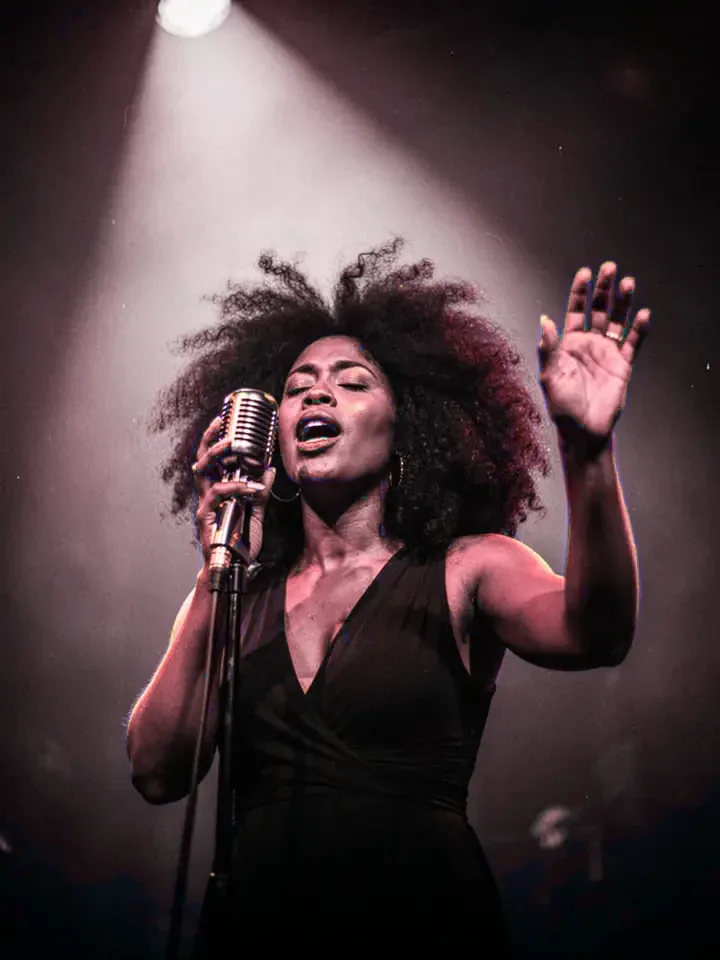
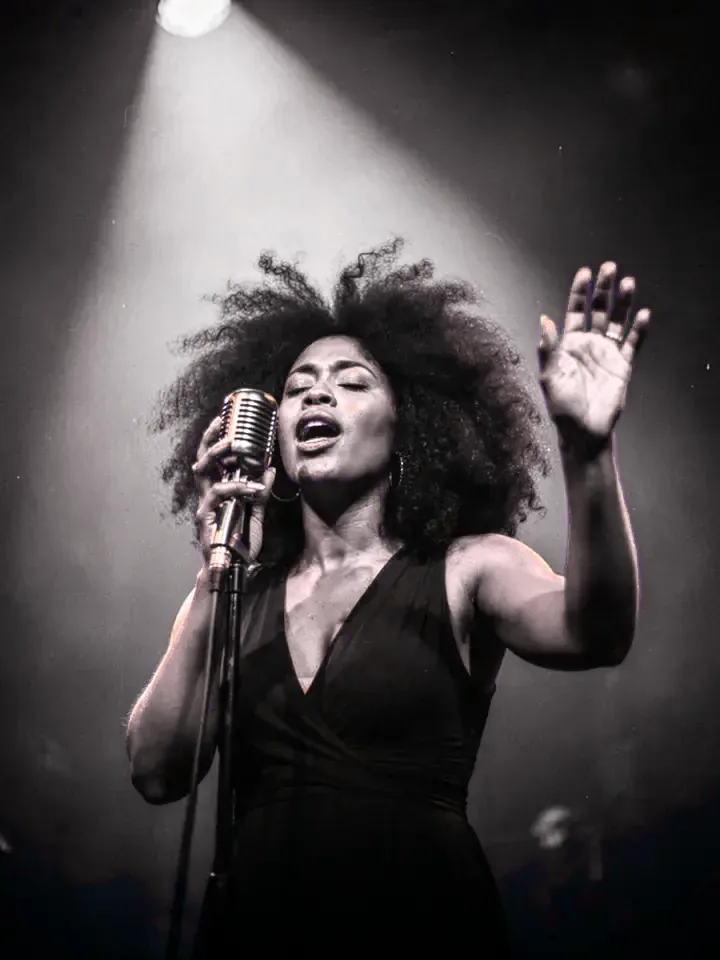
Paleta preto/cinza/vinho sem rosa; laranja só nos botões
Claude-Session: https://claude.ai/code/session_01P75SYugPZQa5aGkncxyAbD

diff --git a/assets/nrota.css b/assets/nrota.css
@@ -2,8 +2,8 @@
 :root{
   --bg:#0d0b0c; --ink:#151213; --glass:rgba(255,255,255,.045); --glass-hi:rgba(255,255,255,.09); --edge:rgba(255,255,255,.09);
   --fg:#f7f4f4; --muted:#aaa4a6; --dim:#716c6e;
-  --lilac:#e07c8e; --violet:#8e1428; --lilac-ink:#2a0710;
-  --orange:#c42a45; --orange-hi:#e0556c; --orange-ink:#fff;
+  --lilac:#c9304a; --violet:#8e1428; --lilac-ink:#2a0710;
+  --orange:#ff7a1a; --orange-hi:#ffa05a; --orange-ink:#1f0d00; --acc:#b3213b; --acc-hi:#cf3a53; --acc-ink:#fff;
   --wine:#ae172e; --danger:#ff8a9a;
   --f-display:"Big Shoulders Display","Arial Narrow","Roboto Condensed",Impact,sans-serif;
   --f-body:"Familjen Grotesk",system-ui,-apple-system,"Segoe UI",sans-serif;
@@ -21,7 +21,7 @@ body::after{content:"";position:fixed;inset:0;z-index:80;pointer-events:none;opa
 img{max-width:100%;display:block}
 a{color:inherit}
 button{font:inherit;color:inherit;cursor:pointer}
-:focus-visible{outline:2px solid var(--orange);outline-offset:3px;border-radius:8px}
+:focus-visible{outline:2px solid var(--acc);outline-offset:3px;border-radius:8px}
 ::selection{background:var(--lilac);color:var(--lilac-ink)}
 .wrap{max-width:var(--wrap);margin:0 auto;padding-left:var(--gutter);padding-right:max(18px,env(safe-area-inset-right,0px))}
 h1,h2,h3{font-family:var(--f-display);font-weight:800;text-transform:uppercase;letter-spacing:-.005em;line-height:.9;text-wrap:balance;margin:0}
@@ -33,16 +33,16 @@ p{margin:0}
 .muted{color:var(--muted)}
 .stroke{color:transparent;-webkit-text-stroke:1.5px var(--lilac)}
 .lil{color:var(--lilac)}
-.org{color:var(--orange)}
-.label{font-family:var(--f-mono);font-size:.68rem;font-weight:500;letter-spacing:.08em;text-transform:uppercase;color:var(--lilac);display:inline-flex;align-items:center;gap:10px}
-.label b{color:var(--orange);font-weight:500}
+.org{color:var(--acc)}
+.label{font-family:var(--f-mono);font-size:.68rem;font-weight:500;letter-spacing:.08em;text-transform:uppercase;color:#bdb7b9;display:inline-flex;align-items:center;gap:10px}
+.label b{color:var(--acc);font-weight:500}
 .label::before{content:"";width:22px;height:1px;background:currentColor}
 
 .btn{position:relative;display:inline-flex;align-items:center;justify-content:center;gap:10px;border-radius:99px;padding:15px 24px;font-weight:600;font-size:1rem;text-decoration:none;border:1px solid transparent;transition:transform .25s var(--ease),box-shadow .25s,background .2s,border-color .2s;white-space:nowrap}
 .btn:active{transform:scale(.97)}
 .btn:disabled{opacity:.6}
-.btn-o{background:linear-gradient(180deg,var(--orange-hi),var(--orange));color:var(--orange-ink);box-shadow:0 10px 30px -8px rgba(196,42,69,.7),inset 0 1px 0 rgba(255,255,255,.35)}
-.btn-o:hover{box-shadow:0 14px 40px -6px rgba(196,42,69,.85),inset 0 1px 0 rgba(255,255,255,.35);transform:translateY(-2px)}
+.btn-o{background:linear-gradient(180deg,var(--orange-hi),var(--orange));color:var(--orange-ink);box-shadow:0 10px 30px -8px rgba(255,122,26,.7),inset 0 1px 0 rgba(255,255,255,.35)}
+.btn-o:hover{box-shadow:0 14px 40px -6px rgba(255,122,26,.85),inset 0 1px 0 rgba(255,255,255,.35);transform:translateY(-2px)}
 .btn-p{background:var(--lilac);color:var(--lilac-ink)}
 .btn-p:hover{background:#d6c3ff;transform:translateY(-2px)}
 .btn-g{background:var(--glass);border-color:var(--edge);color:var(--fg);backdrop-filter:blur(10px);-webkit-backdrop-filter:blur(10px)}
@@ -70,7 +70,7 @@ n-header.open .burger i::after{content:"";display:block;width:18px;height:2px;ba
 n-header.open .menu-panel{opacity:1;visibility:visible}
 .menu-panel a.big{font-family:var(--f-display);font-weight:800;text-transform:uppercase;font-size:clamp(2.8rem,13vw,4.4rem);line-height:.95;text-decoration:none;color:var(--fg);opacity:0;transform:translateY(26px);transition:opacity .45s var(--ease),transform .45s var(--ease),color .2s;transition-delay:calc(var(--i) * 55ms)}
 .menu-panel a.big[aria-current=page],.menu-panel a.big:hover{color:var(--lilac)}
-.menu-panel a.big span{font-family:var(--f-mono);font-size:.7rem;font-weight:400;color:var(--orange);vertical-align:top;margin-right:10px;letter-spacing:.05em}
+.menu-panel a.big span{font-family:var(--f-mono);font-size:.7rem;font-weight:400;color:var(--acc);vertical-align:top;margin-right:10px;letter-spacing:.05em}
 n-header.open .menu-panel a.big{opacity:1;transform:none}
 .menu-panel .btn{margin-top:auto}
 @media (min-width:980px){
@@ -101,15 +101,15 @@ footer.site{position:relative;overflow:hidden;border-top:1px solid var(--edge);p
 .foot ul a{text-decoration:none;font-size:.95rem}
 .foot ul a:hover{color:var(--lilac)}
 .foot-base{display:flex;justify-content:space-between;gap:12px;flex-wrap:wrap;padding-top:22px;border-top:1px solid var(--edge);font-family:var(--f-mono);font-size:.66rem;letter-spacing:.06em;text-transform:uppercase;color:var(--dim)}
-.giant{position:absolute;left:50%;bottom:-.18em;transform:translateX(-50%);font-family:var(--f-display);font-weight:900;font-size:38vw;line-height:1;color:transparent;-webkit-text-stroke:1px rgba(224,124,142,.12);pointer-events:none;white-space:nowrap}
+.giant{position:absolute;left:50%;bottom:-.18em;transform:translateX(-50%);font-family:var(--f-display);font-weight:900;font-size:38vw;line-height:1;color:transparent;-webkit-text-stroke:1px rgba(201,48,74,.12);pointer-events:none;white-space:nowrap}
 @media (min-width:980px){.foot{grid-template-columns:1.3fr 1fr}footer.site{padding-bottom:64px}.giant{font-size:24vw}}
 
 /* abertura */
 .hero{position:relative;isolation:isolate;padding-block:20px 40px;overflow:hidden}
 .beams{position:absolute;inset:-20% -30% auto;height:900px;z-index:-1;pointer-events:none}
 .beam{position:absolute;top:-10%;width:60%;height:120%;filter:blur(30px);opacity:.55;transform-origin:50% 0;mix-blend-mode:screen;animation:sweep 9s ease-in-out infinite alternate}
-.beam.b1{left:5%;background:conic-gradient(from 168deg at 50% 0,transparent 0deg,rgba(224,124,142,.55) 12deg,transparent 26deg)}
-.beam.b2{right:0;background:conic-gradient(from 172deg at 50% 0,transparent 0deg,rgba(196,42,69,.42) 10deg,transparent 22deg);animation-duration:11s;animation-delay:-3s}
+.beam.b1{left:5%;background:conic-gradient(from 168deg at 50% 0,transparent 0deg,rgba(201,48,74,.55) 12deg,transparent 26deg)}
+.beam.b2{right:0;background:conic-gradient(from 172deg at 50% 0,transparent 0deg,rgba(179,33,59,.42) 10deg,transparent 22deg);animation-duration:11s;animation-delay:-3s}
 .beam.b3{left:35%;background:conic-gradient(from 175deg at 50% 0,transparent 0deg,rgba(142,20,40,.6) 9deg,transparent 18deg);animation-duration:13s}
 @keyframes sweep{from{transform:rotate(-14deg)}to{transform:rotate(14deg)}}
 .hero-grid{display:grid;gap:28px}
@@ -118,7 +118,7 @@ footer.site{position:relative;overflow:hidden;border-top:1px solid var(--edge);p
 .hero h1 span{display:block}
 .hero .fine{font-family:var(--f-mono);font-size:.66rem;letter-spacing:.06em;text-transform:uppercase;color:var(--dim)}
 .eq{display:inline-flex;gap:3px;align-items:flex-end;height:14px}
-.eq i{width:3px;background:var(--orange);border-radius:2px;animation:eq 1s ease-in-out infinite}
+.eq i{width:3px;background:var(--acc);border-radius:2px;animation:eq 1s ease-in-out infinite}
 .eq i:nth-child(2){animation-delay:-.3s}.eq i:nth-child(3){animation-delay:-.6s}.eq i:nth-child(4){animation-delay:-.15s}
 @keyframes eq{0%,100%{height:3px}50%{height:14px}}
 
@@ -136,7 +136,7 @@ footer.site{position:relative;overflow:hidden;border-top:1px solid var(--edge);p
 .chip-f .dot{width:30px;height:30px;border-radius:10px;display:grid;place-items:center;background:var(--lilac);color:var(--lilac-ink);flex:none}
 .chip-f.c1{left:0;bottom:16%}
 .chip-f.c2{right:2%;top:4%;animation-delay:-2s}
-.chip-f.c2 .dot{background:var(--orange);color:var(--orange-ink)}
+.chip-f.c2 .dot{background:var(--acc);color:var(--acc-ink)}
 .chip-f.c3{right:4%;bottom:2%;animation-delay:-4s}
 .caret{display:inline-block;width:2px;height:1em;background:var(--lilac);vertical-align:-2px;margin-left:2px;animation:blink 1s steps(1) infinite}
 @keyframes blink{50%{opacity:0}}
@@ -155,7 +155,7 @@ footer.site{position:relative;overflow:hidden;border-top:1px solid var(--edge);p
 .ticker.alt .track{animation-direction:reverse;animation-duration:32s}
 .ticker span{font-family:var(--f-display);font-weight:800;text-transform:uppercase;font-size:clamp(1.7rem,6vw,2.6rem);line-height:1;padding-inline:18px;white-space:nowrap;display:flex;align-items:center;gap:36px}
 .ticker span::after{content:"✦";font-size:.6em}
-.t-org{background:var(--orange);color:var(--orange-ink)}
+.t-org{background:var(--acc);color:var(--acc-ink)}
 .t-lil{background:var(--lilac);color:var(--lilac-ink)}
 @keyframes tick{to{transform:translateX(-50%)}}
 
@@ -175,14 +175,14 @@ section.s{position:relative;padding-block:76px}
 @media (min-width:980px){.snap.fit{grid-auto-flow:row;grid-template-columns:repeat(3,1fr);overflow:visible;margin-inline:0;padding-inline:0}}
 
 .card{position:relative;display:flex;flex-direction:column;gap:12px;padding:24px;border-radius:var(--r);background:linear-gradient(160deg,rgba(255,255,255,.06),rgba(255,255,255,.015));border:1px solid var(--edge);min-width:0;transition:transform .35s var(--ease),border-color .3s;transform:perspective(900px) rotateX(var(--rx,0)) rotateY(var(--ry,0))}
-.card:hover{border-color:rgba(224,124,142,.35)}
+.card:hover{border-color:rgba(201,48,74,.35)}
 .card p,.card li{color:var(--muted);font-size:.96rem}
 .card .label{margin-bottom:2px}
 .card ul{margin:0;padding:0;list-style:none;display:grid;gap:7px}
 .card ul li{padding-left:18px;position:relative}
-.card ul li::before{content:"";position:absolute;left:0;top:.62em;width:8px;height:2px;background:var(--orange)}
-.card h3 small{display:block;margin-top:8px;font-family:var(--f-mono);font-weight:500;font-size:.62rem;letter-spacing:.08em;color:var(--orange)}
-.card .num{font-family:var(--f-display);font-weight:900;font-size:4.2rem;line-height:.8;color:transparent;-webkit-text-stroke:1px rgba(224,124,142,.5)}
+.card ul li::before{content:"";position:absolute;left:0;top:.62em;width:8px;height:2px;background:var(--acc)}
+.card h3 small{display:block;margin-top:8px;font-family:var(--f-mono);font-weight:500;font-size:.62rem;letter-spacing:.08em;color:var(--acc)}
+.card .num{font-family:var(--f-display);font-weight:900;font-size:4.2rem;line-height:.8;color:transparent;-webkit-text-stroke:1px rgba(201,48,74,.5)}
 a.card{text-decoration:none}
 a.card .more{margin-top:auto;padding-top:10px}
 .card.photo{padding:0;overflow:hidden;min-height:360px;justify-content:flex-end}
@@ -191,10 +191,10 @@ a.card .more{margin-top:auto;padding-top:10px}
 .card.photo::before{content:"";position:absolute;inset:0;z-index:1;background:linear-gradient(180deg,rgba(13,11,12,.05) 30%,rgba(13,11,12,.92))}
 .card.photo .in{position:relative;z-index:2;display:grid;gap:10px;padding:22px}
 .card.dash{background:transparent;border-style:dashed}
-.card.hl{border-color:rgba(196,42,69,.6);background:linear-gradient(160deg,rgba(196,42,69,.16),rgba(255,255,255,.02) 60%)}
+.card.hl{border-color:rgba(179,33,59,.6);background:linear-gradient(160deg,rgba(179,33,59,.16),rgba(255,255,255,.02) 60%)}
 .price{font-family:var(--f-display);font-weight:800;font-size:3rem;line-height:.9;color:var(--lilac)}
 .price small{font-family:var(--f-mono);font-weight:400;font-size:.62rem;letter-spacing:.06em;color:var(--muted);text-transform:uppercase;margin-left:6px}
-.card.hl .price{color:var(--orange-hi)}
+.card.hl .price{color:var(--acc-hi)}
 .card .btn{margin-top:auto;align-self:flex-start}
 
 /* artistas fictícios */
@@ -225,11 +225,11 @@ a.card .more{margin-top:auto;padding-top:10px}
 @keyframes lane{to{transform:translateY(-50%)}}
 .lc{display:grid;grid-template-columns:42px 1fr;gap:12px;align-items:center;padding:12px;border-radius:16px;background:rgba(255,255,255,.04);border:1px solid var(--edge);min-width:0}
 .lc img,.lc .av{width:42px;height:42px;border-radius:12px;object-fit:cover}
-.lc .av{display:grid;place-items:center;background:var(--glass-hi);font-family:var(--f-mono);font-size:.62rem;color:var(--orange)}
+.lc .av{display:grid;place-items:center;background:var(--glass-hi);font-family:var(--f-mono);font-size:.62rem;color:var(--acc)}
 .lc strong{display:block;font-size:.92rem;white-space:nowrap;overflow:hidden;text-overflow:ellipsis}
 .lc span{display:block;font-size:.78rem;color:var(--muted);white-space:nowrap;overflow:hidden;text-overflow:ellipsis}
 .lc .pill{display:inline-block;margin-top:5px;font-family:var(--f-mono);font-size:.54rem;letter-spacing:.06em;text-transform:uppercase;padding:3px 8px;border-radius:99px;border:1px solid var(--edge);color:var(--lilac)}
-.lc.ask .pill{color:var(--orange-hi);border-color:rgba(196,42,69,.35)}
+.lc.ask .pill{color:var(--acc-hi);border-color:rgba(179,33,59,.35)}
 @media (min-width:640px){.stage{grid-template-columns:1fr 1fr}.lane.rev{display:block}}
 @media (min-width:980px){.flow{grid-template-columns:.9fr 1.1fr;align-items:center;gap:56px}.stage{height:520px}}
 
@@ -246,13 +246,13 @@ a.card .more{margin-top:auto;padding-top:10px}
   .steps li{grid-template-columns:1fr;padding-top:26px}
 }
 
-.rule{margin-top:22px;padding:18px 20px;border-radius:18px;border-left:3px solid var(--orange);background:var(--glass);color:var(--muted);font-size:.96rem}
+.rule{margin-top:22px;padding:18px 20px;border-radius:18px;border-left:3px solid var(--acc);background:var(--glass);color:var(--muted);font-size:.96rem}
 .rule strong{color:var(--fg)}
 .example{font-family:var(--f-mono);font-size:.8rem;line-height:2;color:var(--fg)}
 .example span{color:var(--lilac)}
 
 /* faixa final com vinil */
-.band{position:relative;overflow:hidden;display:grid;gap:22px;padding:34px 26px;border-radius:32px;border:1px solid var(--edge);background:radial-gradient(80% 120% at 0% 0%,rgba(142,20,40,.55),transparent 60%),radial-gradient(60% 80% at 100% 100%,rgba(196,42,69,.25),transparent 60%),var(--ink)}
+.band{position:relative;overflow:hidden;display:grid;gap:22px;padding:34px 26px;border-radius:32px;border:1px solid var(--edge);background:radial-gradient(80% 120% at 0% 0%,rgba(142,20,40,.55),transparent 60%),radial-gradient(60% 80% at 100% 100%,rgba(179,33,59,.25),transparent 60%),var(--ink)}
 .band>div{position:relative;z-index:2;display:grid;gap:14px;max-width:560px}
 .band h2{font-size:clamp(2.4rem,9vw,4.4rem)}
 .band .ctas{position:relative;z-index:2}
@@ -274,18 +274,18 @@ a.card .more{margin-top:auto;padding-top:10px}
 .toc{display:flex;flex-wrap:wrap;gap:8px}
 .chip{display:inline-flex;align-items:center;gap:8px;padding:9px 15px;border-radius:99px;border:1px solid var(--edge);background:var(--glass);font-size:.9rem;color:var(--fg);text-decoration:none;backdrop-filter:blur(8px)}
 .chip small{font-family:var(--f-mono);font-size:.56rem;letter-spacing:.08em;text-transform:uppercase;color:var(--muted)}
-.chip.on{border-color:var(--orange)}
-.chip.on::before{content:"";width:7px;height:7px;border-radius:50%;background:var(--orange);box-shadow:0 0 10px var(--orange)}
+.chip.on{border-color:var(--acc)}
+.chip.on::before{content:"";width:7px;height:7px;border-radius:50%;background:var(--acc);box-shadow:0 0 10px var(--acc)}
 a.chip:hover{border-color:var(--lilac)}
 
 .faq{display:grid;gap:10px;max-width:860px}
 .faq-group{display:grid;gap:16px;margin-bottom:48px}
 .faq-group h2{font-size:clamp(2rem,7vw,3rem)}
 .faq details{border-radius:18px;border:1px solid var(--edge);background:var(--glass);transition:border-color .2s}
-.faq details[open]{border-color:rgba(224,124,142,.35)}
+.faq details[open]{border-color:rgba(201,48,74,.35)}
 .faq summary{list-style:none;cursor:pointer;padding:18px 56px 18px 20px;font-weight:600;font-size:1.02rem;position:relative}
 .faq summary::-webkit-details-marker{display:none}
-.faq summary::after{content:"+";position:absolute;right:16px;top:50%;width:30px;height:30px;margin-top:-15px;border-radius:50%;display:grid;place-items:center;background:var(--glass-hi);color:var(--orange);font-size:1.2rem;transition:transform .3s var(--ease)}
+.faq summary::after{content:"+";position:absolute;right:16px;top:50%;width:30px;height:30px;margin-top:-15px;border-radius:50%;display:grid;place-items:center;background:var(--glass-hi);color:var(--acc);font-size:1.2rem;transition:transform .3s var(--ease)}
 .faq details[open] summary::after{transform:rotate(45deg)}
 .faq details p{padding:0 20px 20px;color:var(--muted)}
 .faq details p a{color:var(--lilac)}
@@ -300,7 +300,7 @@ a.chip:hover{border-color:var(--lilac)}
 .form-aside::before{content:"";position:absolute;inset:0;z-index:-1;background:var(--aside-img,none) center 25%/cover;opacity:.32;filter:saturate(1.1)}
 .form-aside::after{content:"";position:absolute;inset:0;z-index:-1;background:linear-gradient(180deg,rgba(13,11,12,.3),rgba(13,11,12,.9))}
 .form-aside h1{font-size:clamp(2.8rem,12vw,4.6rem)}
-.form-aside .label{color:var(--orange)}
+.form-aside .label{color:var(--acc)}
 .steplist{list-style:none;margin:6px 0 0;padding:0;display:none;gap:2px;counter-reset:fs}
 .steplist li{counter-increment:fs}
 .steplist button{display:grid;grid-template-columns:28px 1fr;gap:10px;align-items:center;width:100%;text-align:left;background:none;border:0;padding:7px 8px;border-radius:12px;color:var(--muted);font-size:.92rem}
@@ -308,14 +308,14 @@ a.chip:hover{border-color:var(--lilac)}
 .steplist .done button{color:var(--fg)}
 .steplist .done button::before{content:"✓";color:var(--lilac);border-color:var(--lilac)}
 .steplist .cur button{color:var(--fg);background:var(--glass-hi)}
-.steplist .cur button::before{background:var(--orange);color:var(--orange-ink);border-color:var(--orange)}
+.steplist .cur button::before{background:var(--acc);color:var(--acc-ink);border-color:var(--acc)}
 .steplist button:disabled{cursor:default}
 .aside-note{display:none;font-size:.86rem;color:var(--muted);padding:12px 14px;border:1px solid var(--edge);border-radius:14px;background:rgba(13,11,12,.5)}
 .form-card{border:1px solid var(--edge);border-radius:28px;background:linear-gradient(160deg,rgba(255,255,255,.05),rgba(255,255,255,.01));min-width:0}
 .form-card .prog{display:grid;gap:8px;padding:18px 20px 0}
 .prog-bar{display:flex;gap:4px}
 .prog-bar i{flex:1;height:4px;border-radius:4px;background:var(--edge);transition:background .3s}
-.prog-bar i.d{background:linear-gradient(90deg,var(--lilac),var(--orange))}
+.prog-bar i.d{background:linear-gradient(90deg,var(--lilac),var(--acc))}
 .prog-txt{font-family:var(--f-mono);font-size:.62rem;letter-spacing:.06em;text-transform:uppercase;color:var(--muted);display:flex;justify-content:space-between;gap:12px}
 .prog-txt b{color:var(--fg);font-weight:500}
 .f-body{padding:22px 20px}
@@ -333,7 +333,7 @@ a.chip:hover{border-color:var(--lilac)}
   .f-foot .save{max-width:none}
 }
 .draft{display:flex;justify-content:space-between;gap:12px;align-items:center;padding:12px 14px;border-radius:14px;background:var(--glass-hi);font-size:.86rem;color:var(--muted);margin-bottom:20px}
-.draft button{background:none;border:0;color:var(--orange);font-weight:600;padding:0}
+.draft button{background:none;border:0;color:var(--acc);font-weight:600;padding:0}
 .stp{border:0;margin:0;padding:0;min-width:0;animation:stepin .45s var(--ease)}
 @keyframes stepin{from{opacity:0;transform:translateX(18px)}}
 .stp legend{padding:0;margin-bottom:6px}
@@ -343,7 +343,7 @@ a.chip:hover{border-color:var(--lilac)}
 .fld.half{grid-column:span 2}
 @media (min-width:640px){.fld.half{grid-column:span 1}}
 .fld>label,.fld>.lb{font-size:.92rem;font-weight:600;display:flex;gap:8px;align-items:center;flex-wrap:wrap}
-.req{color:var(--orange)}
+.req{color:var(--acc)}
 .badge{font-family:var(--f-mono);font-size:.54rem;letter-spacing:.06em;text-transform:uppercase;padding:3px 8px;border-radius:99px;border:1px solid var(--edge);color:var(--lilac)}
 .hint{font-size:.82rem;color:var(--muted)}
 .err{font-size:.82rem;color:var(--danger)}
@@ -351,7 +351,7 @@ a.chip:hover{border-color:var(--lilac)}
 input[type=text],input[type=email],input[type=tel],input[type=number],input[type=date],input[type=time],select,textarea{width:100%;background:rgba(13,11,12,.6);border:1px solid var(--edge);border-radius:14px;padding:14px 15px;font:inherit;font-size:16px;color:var(--fg);transition:border-color .2s,box-shadow .2s}
 textarea{min-height:100px;resize:vertical}
 input::placeholder,textarea::placeholder{color:var(--dim)}
-input:focus,select:focus,textarea:focus{outline:none;border-color:var(--lilac);box-shadow:0 0 0 4px rgba(224,124,142,.16)}
+input:focus,select:focus,textarea:focus{outline:none;border-color:var(--lilac);box-shadow:0 0 0 4px rgba(201,48,74,.16)}
 .fld.bad input,.fld.bad select,.fld.bad textarea,.fld.bad .opts,.fld.bad .tags{border-color:var(--danger)}
 .fld.bad{animation:shake .35s}
 @keyframes shake{25%{transform:translateX(-5px)}75%{transform:translateX(5px)}}
@@ -360,11 +360,11 @@ input:focus,select:focus,textarea:focus{outline:none;border-color:var(--lilac);b
 .opt input{position:absolute;opacity:0;inset:0;cursor:pointer;margin:0}
 .opt span{display:inline-block;padding:10px 15px;border-radius:99px;border:1px solid var(--edge);background:rgba(13,11,12,.4);font-size:.92rem;color:var(--muted);transition:all .2s var(--ease)}
 .opt input:checked+span{background:var(--lilac);border-color:var(--lilac);color:var(--lilac-ink);font-weight:600;transform:scale(1.03)}
-.opt input:focus-visible+span{outline:2px solid var(--orange);outline-offset:2px}
+.opt input:focus-visible+span{outline:2px solid var(--acc);outline-offset:2px}
 .check{display:grid;grid-template-columns:22px 1fr;gap:12px;align-items:start;padding:15px;border:1px solid var(--edge);border-radius:16px;background:rgba(13,11,12,.4);font-size:.94rem;cursor:pointer}
-.check input{width:20px;height:20px;margin:1px 0 0;accent-color:var(--orange)}
+.check input{width:20px;height:20px;margin:1px 0 0;accent-color:var(--acc)}
 .check small{display:block;color:var(--muted);font-size:.82rem;margin-top:4px}
-.note{grid-column:span 2;padding:14px 16px;border-left:3px solid var(--orange);background:var(--glass);border-radius:0 14px 14px 0;font-size:.9rem;color:var(--muted)}
+.note{grid-column:span 2;padding:14px 16px;border-left:3px solid var(--acc);background:var(--glass);border-radius:0 14px 14px 0;font-size:.9rem;color:var(--muted)}
 .sub{grid-column:span 2;font-family:var(--f-mono);font-size:.66rem;letter-spacing:.1em;text-transform:uppercase;color:var(--lilac);padding-top:6px}
 .multi{display:grid;gap:10px}
 @media (min-width:640px){.multi{grid-template-columns:1fr 1fr}}
@@ -377,11 +377,11 @@ input:focus,select:focus,textarea:focus{outline:none;border-color:var(--lilac);b
 .row .rm{grid-column:span 2;height:36px;border-radius:12px;border:1px solid var(--edge);background:none;color:var(--muted)}
 .row-h{display:none}
 @media (min-width:760px){.row{grid-template-columns:1.3fr 1.2fr .8fr 1fr 40px;padding:0;border:0}.row .rm{grid-column:auto;width:40px;height:46px}.row-h{display:grid;font-family:var(--f-mono);font-size:.58rem;letter-spacing:.06em;color:var(--dim);text-transform:uppercase}}
-.add{justify-self:start;background:none;border:1px dashed var(--edge);border-radius:12px;padding:11px 16px;color:var(--orange);font-weight:600;font-size:.9rem}
+.add{justify-self:start;background:none;border:1px dashed var(--edge);border-radius:12px;padding:11px 16px;color:var(--acc);font-weight:600;font-size:.9rem}
 input[type=file]{width:100%;font-size:.88rem;color:var(--muted);padding:14px;border:1px dashed var(--edge);border-radius:14px;background:rgba(13,11,12,.4)}
 input[type=file]::file-selector-button{font:inherit;font-weight:600;margin-right:12px;border:0;border-radius:99px;padding:8px 14px;background:var(--glass-hi);color:var(--fg);cursor:pointer}
 .done{display:grid;gap:18px;justify-items:start;padding-block:12px}
-.done .ico{width:64px;height:64px;border-radius:20px;display:grid;place-items:center;background:linear-gradient(135deg,var(--lilac),var(--orange));color:var(--lilac-ink);animation:pop .6s var(--ease)}
+.done .ico{width:64px;height:64px;border-radius:20px;display:grid;place-items:center;background:linear-gradient(135deg,var(--lilac),var(--acc));color:var(--lilac-ink);animation:pop .6s var(--ease)}
 @keyframes pop{from{transform:scale(.4) rotate(-20deg);opacity:0}}
 .done p{color:var(--muted);max-width:52ch}
 .proto{font-family:var(--f-mono);font-size:.78rem;padding:9px 13px;border-radius:12px;background:var(--glass-hi)}
@@ -406,7 +406,7 @@ input[type=file]::file-selector-button{font:inherit;font-weight:600;margin-right
 .fatos dt{font-family:var(--f-mono);font-size:.68rem;letter-spacing:.08em;text-transform:uppercase;color:var(--dim)}
 .fatos dd{margin:0;text-align:right}
 .citacao{margin:0 0 48px;font-family:var(--f-display);font-weight:800;text-transform:uppercase;font-size:clamp(2rem,8vw,4.4rem);line-height:.95;color:var(--lilac);text-wrap:balance}
-.citacao cite{display:block;margin-top:16px;font:500 .72rem/1 var(--f-mono);letter-spacing:.08em;color:var(--orange)}
+.citacao cite{display:block;margin-top:16px;font:500 .72rem/1 var(--f-mono);letter-spacing:.08em;color:var(--acc)}
 .duo{display:grid;gap:14px;grid-template-columns:1fr 1fr}
 .duo-f{margin:0;aspect-ratio:3/4;border-radius:var(--r);overflow:hidden;box-shadow:0 0 0 1px var(--edge)}
 .duo-f:nth-child(2){margin-top:28px}
@@ -425,11 +425,11 @@ input[type=file]::file-selector-button{font:inherit;font-weight:600;margin-right
 .juggle .b2{background:radial-gradient(circle at 30% 28%,#4a4547,#1b1819 60%,#000);animation-delay:-1.2s}
 .juggle .b3{background:radial-gradient(circle at 30% 28%,#e8788a,var(--wine) 60%,#4d0a15);animation-delay:-2.4s}
 .juggle .b4{background:radial-gradient(circle at 30% 28%,#bdb7b9,#6e686a 60%,#2e2a2b);animation-delay:-3.6s}
-.juggle .b5{background:radial-gradient(circle at 30% 28%,#ee8a9b,var(--orange) 55%,#4d0a15);animation-delay:-4.8s}
+.juggle .b5{background:radial-gradient(circle at 30% 28%,#ee8a9b,var(--acc) 55%,#4d0a15);animation-delay:-4.8s}
 @keyframes orbit{to{offset-distance:100%}}
 .juggle .ring{position:absolute;border-radius:50%;border:2px solid var(--lilac);opacity:.55;animation:spin 9s linear infinite}
 .juggle .r1{width:220px;height:220px;left:40px;top:10px;transform:rotateX(68deg)}
-.juggle .r2{width:140px;height:140px;left:80px;top:50px;border-color:var(--orange);animation-direction:reverse;animation-duration:7s}
+.juggle .r2{width:140px;height:140px;left:80px;top:50px;border-color:var(--acc);animation-direction:reverse;animation-duration:7s}
 @keyframes spin{from{transform:rotateX(68deg) rotateZ(0)}to{transform:rotateX(68deg) rotateZ(360deg)}}
 .juggle .hands{position:absolute;left:78px;right:78px;bottom:6px;height:16px;border-radius:99px;background:linear-gradient(90deg,var(--wine),var(--lilac),var(--wine));filter:blur(14px);opacity:.7}
 @media (min-width:900px){.perf{grid-template-columns:1.1fr .9fr;gap:60px;padding-top:150px}.juggle{transform:scale(1.4);transform-origin:center}}
